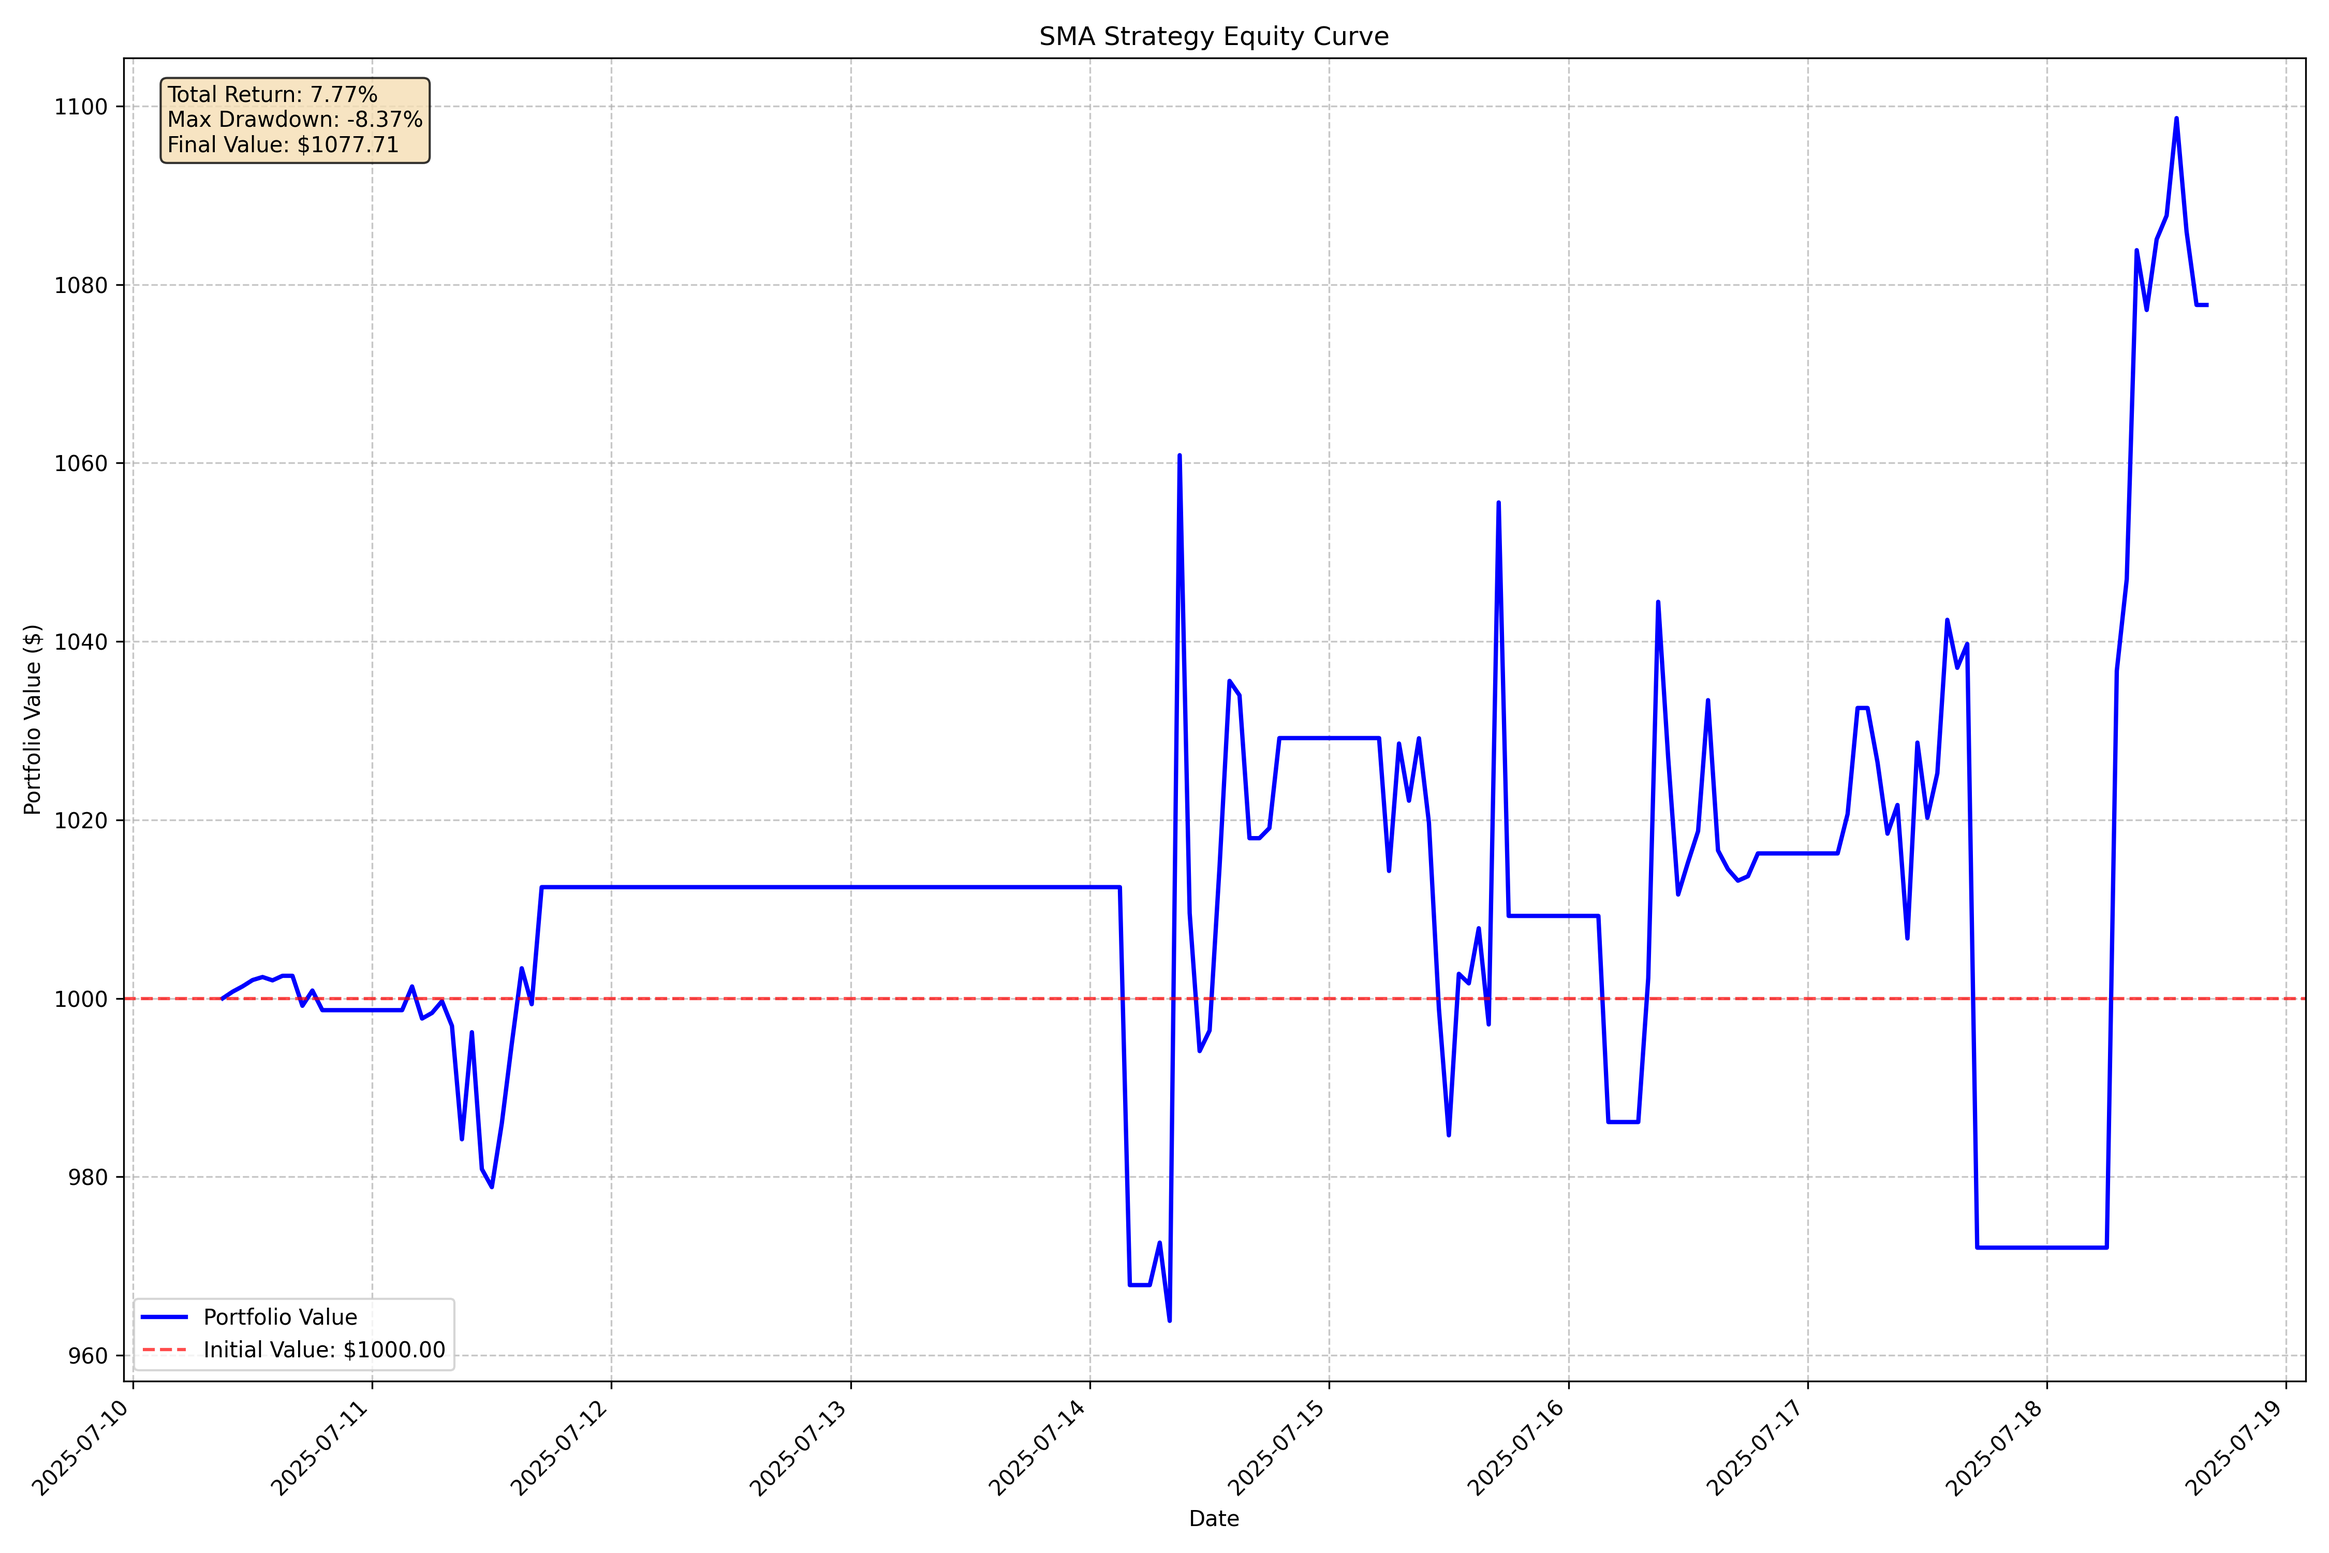
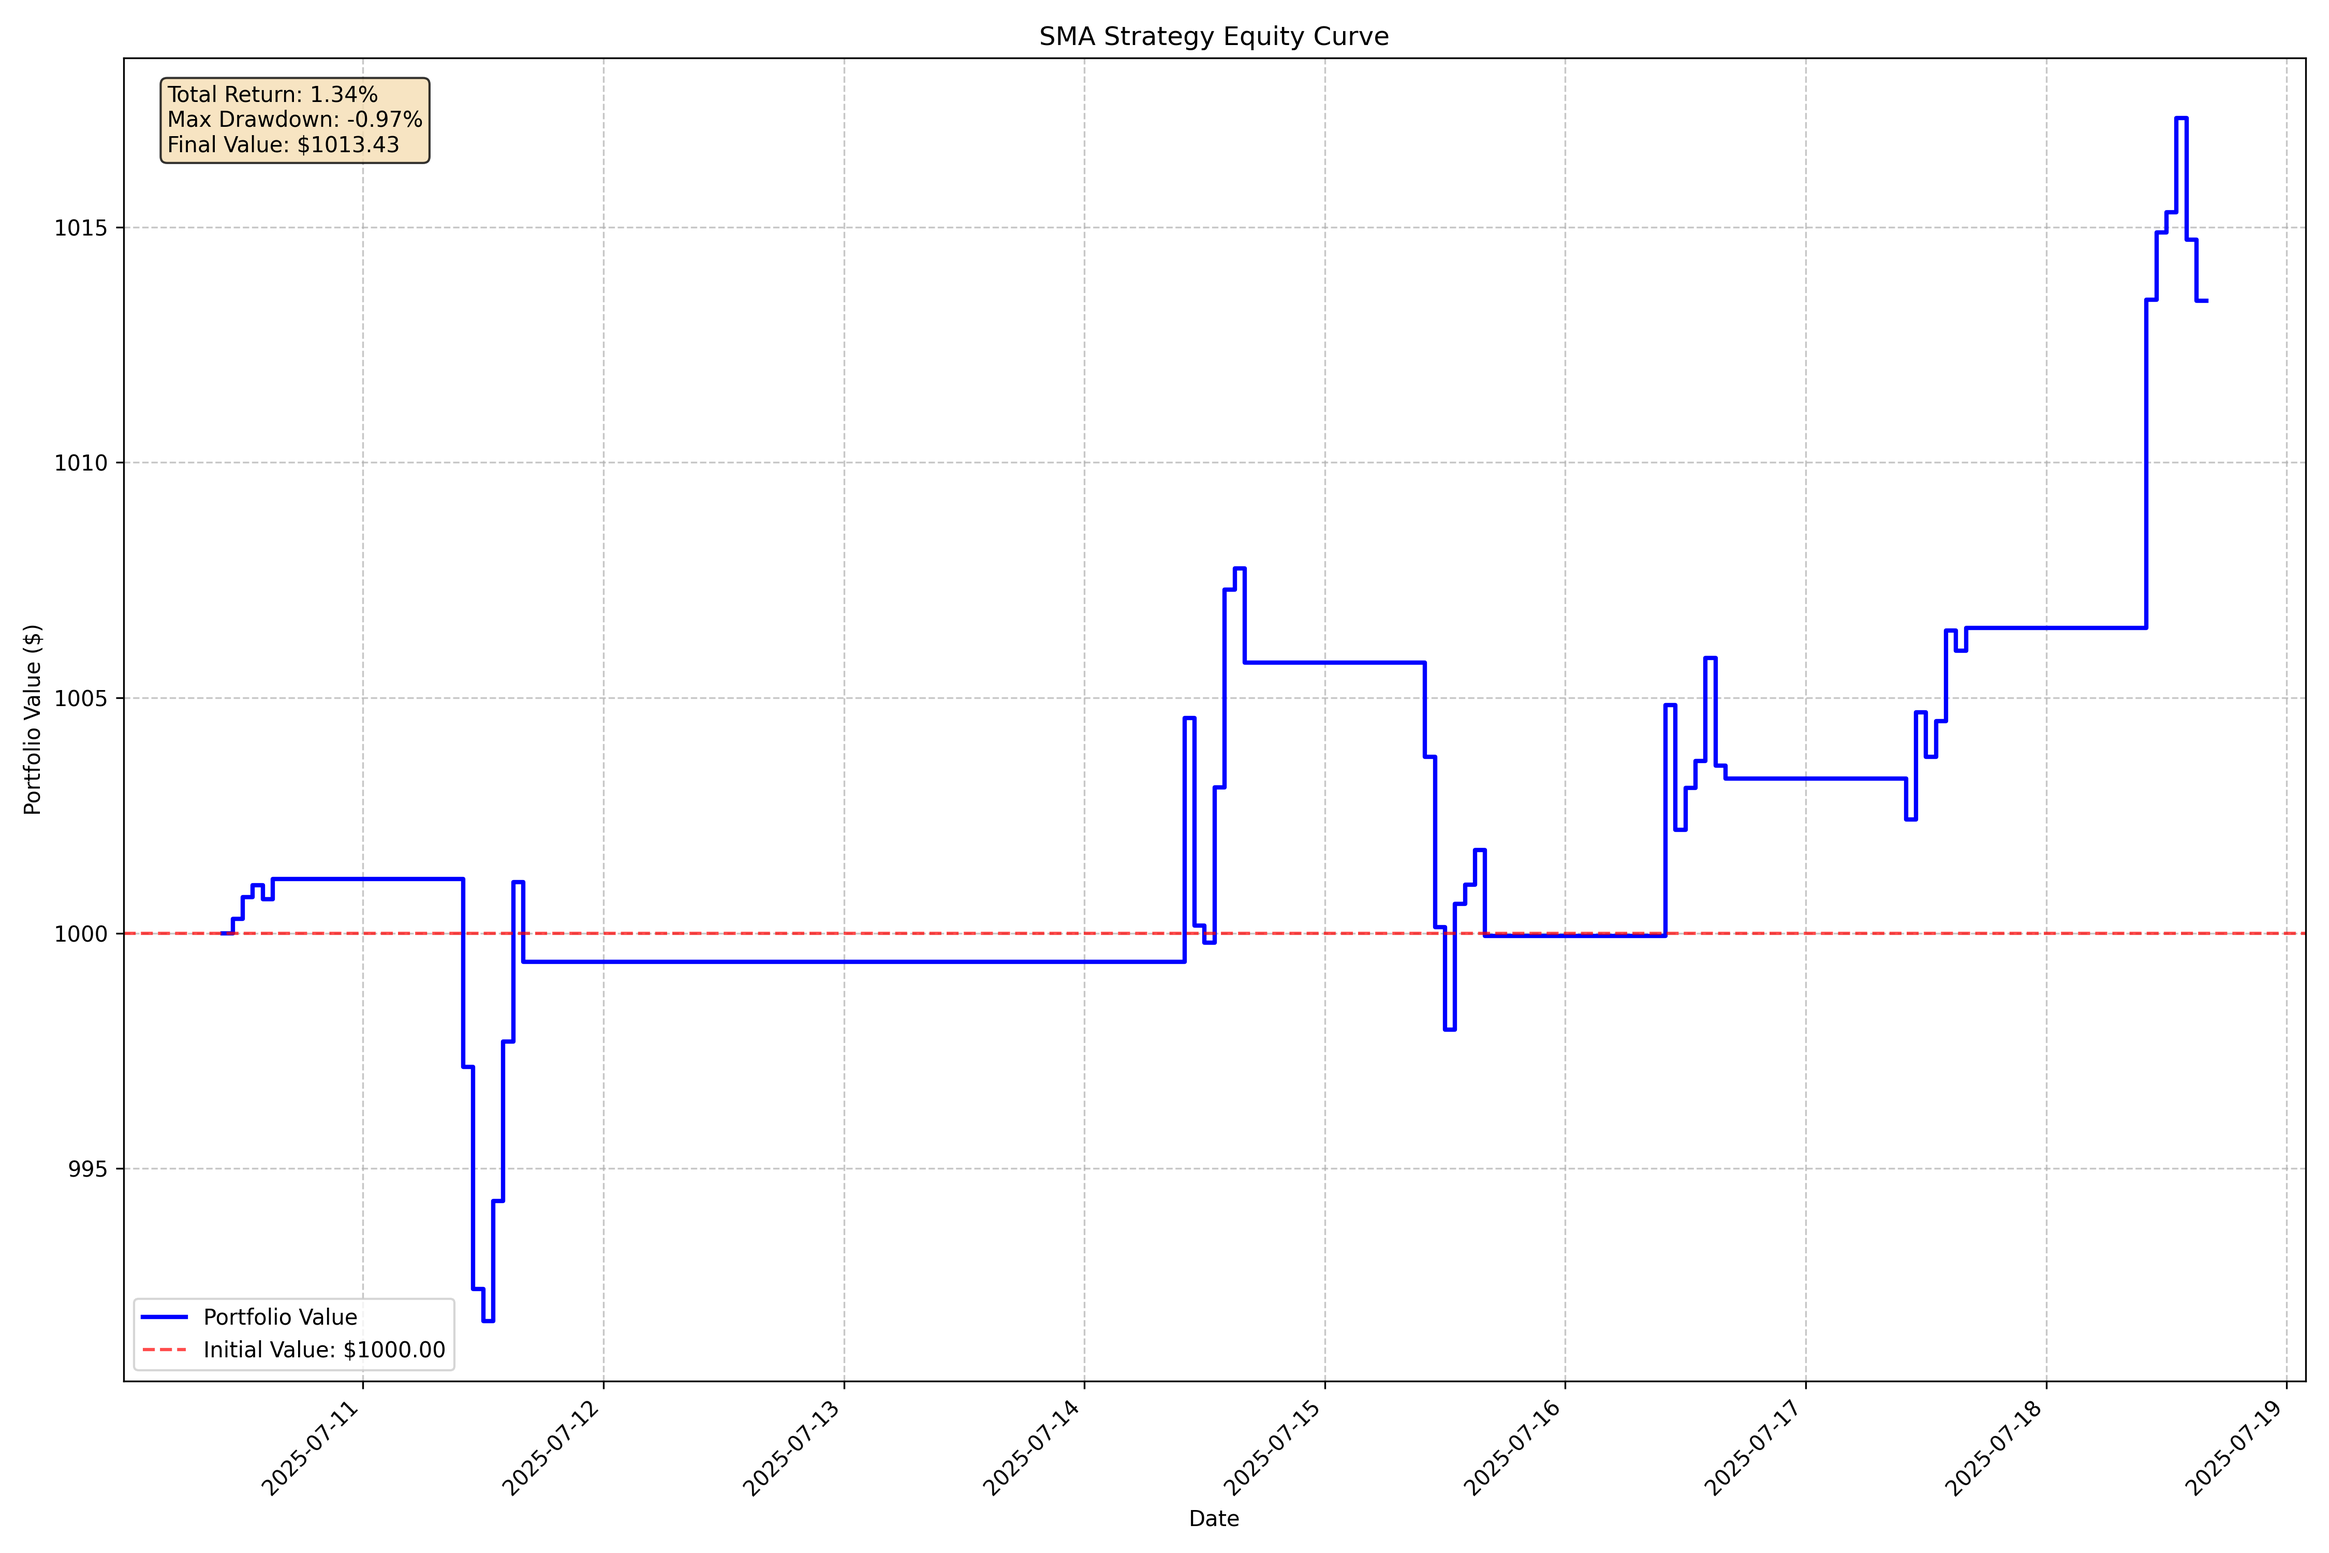
more plotting

diff --git a/src/backtester.py b/src/backtester.py
@@ -117,7 +117,7 @@ class EventBacktester(ABC):
         if ffill:
             self.state_history = self.state_history.ffill()
 
-    def _update_portfolio_value(self, index: pd.Timestamp, prices: dict[str, float]):
+    def _update_portfolio_value(self, index: pd.Timestamp, prices: pd.Series):
         """Update the portfolio value at the given index using current prices.
 
         Args:
@@ -225,6 +225,8 @@ class EventBacktester(ABC):
         assert test_prices.index.is_monotonic_increasing, "Prices dataframe must have a monotonic increasing index"
         assert isinstance(
             test_prices.index[0], pd.Timestamp), "Prices dataframe index must be a timestamp"
+        # store
+        self.test_prices = test_prices
 
         # if train prices is not None, we want to make the full price history
         if self.train_prices is not None:
@@ -243,22 +245,18 @@ class EventBacktester(ABC):
         for index in full_price_history.index[start_loc:]:
             # perform update step
             self.update_step(full_price_history, index)
-            # check if the market is open
             if ignore_market_open or is_market_open(index):
                 # make a decision
                 current_bar_prices = full_price_history.loc[index]
                 self.take_action(current_bar_prices)
 
                 # Update portfolio value with current prices
-                current_prices = {
-                    ticker: current_bar_prices[ticker] for ticker in self.active_tickers}
-                self._update_portfolio_value(index, current_prices)
+                self._update_portfolio_value(index, current_bar_prices)
 
-            if close_positions:
-                if index == full_price_history.index[-2]:
-                    logger.info(f"Closing positions at {index}...")
-                    self.close_positions(full_price_history.iloc[-1])
-                    break
+            if close_positions and index == full_price_history.index[-2]:
+                logger.info(f"Closing positions at {index}...")
+                self.close_positions(full_price_history.iloc[-1])
+                break
 
         logger.info("Backtest complete.")
         # return the state history
@@ -328,39 +326,6 @@ class EventBacktester(ABC):
             train_prices.index[0], pd.Timestamp), "Prices dataframe index must be a timestamp"
         self.train_prices = train_prices
         self.preload(train_prices)
-    ################################################################################################
-    ################################################################################################
-
-    def preload(self, train_prices: pd.DataFrame):
-        """
-        Preload the indicators for the backtest. This is meant to be overridden by the child class.
-        """
-        raise NotImplementedError(
-            "This method must be overridden by the child class.")
-
-    def update_step(self, prices: pd.DataFrame, index: pd.Timestamp):
-        """
-        Args:
-            prices: DataFrame with prices of the assets. Columns are the tickers, index is the date.
-                Close prices are used.
-            index: The index point of the prices.
-        This is optional and can be overridden by the child class.
-        """
-        pass
-
-    @abstractmethod
-    def take_action(self, prices: pd.Series):
-        """
-        Make a decision based on the current prices. This is meant to be overridden by the child class.
-        This will place an order if needed.
-
-        Args:
-            prices: Series with prices of the assets. Index is the date.
-        Returns:
-            Position: The order to place.
-        """
-        raise NotImplementedError(
-            "This method must be overridden by the child class.")
 
     def plot_equity_curve(self, figsize: tuple = DEFAULT_FIGSIZE, title: str = "Equity Curve", save_plot: bool = True, show_plot: bool = False) -> plt.Figure:
         """
@@ -386,8 +351,8 @@ class EventBacktester(ABC):
         portfolio_values = state_history["portfolio_value"]
         # Filter out the initial state (index 0) and only plot timestamp-indexed data
         portfolio_values_filtered = portfolio_values[portfolio_values.index != 0]
-        ax.plot(portfolio_values_filtered.index, portfolio_values_filtered,
-                label="Portfolio Value", linewidth=2, color='blue')
+        ax.step(portfolio_values_filtered.index, portfolio_values_filtered,
+                label="Portfolio Value", linewidth=2, color='blue', where='post')
 
         # Add horizontal line for initial portfolio value
         initial_value = portfolio_values_filtered.iloc[0]
@@ -433,7 +398,7 @@ class EventBacktester(ABC):
 
         return fig
 
-    def plot_performance_analysis(self, figsize: tuple = (15, 12), save_plot: bool = True, show_plot: bool = True):
+    def plot_performance_analysis(self, figsize: tuple = (20, 10), save_plot: bool = True, show_plot: bool = True):
         """
         Create a comprehensive performance analysis plot with multiple subplots.
 
@@ -449,8 +414,9 @@ class EventBacktester(ABC):
                 "No state history available for plotting performance analysis")
             return
 
-        # Create figure with subplots
-        fig, ((ax1, ax2), (ax3, ax4)) = plt.subplots(2, 2, figsize=figsize)
+        # Create figure with subplots (2 rows, 3 columns)
+        fig, ((ax1, ax2, ax3), (ax4, ax5, ax6)
+              ) = plt.subplots(2, 3, figsize=figsize)
 
         portfolio_values = state_history["portfolio_value"]
         # Filter out the initial state (index 0) and only plot timestamp-indexed data
@@ -459,8 +425,8 @@ class EventBacktester(ABC):
         # Subplot 1: Cumulative Returns
         returns = portfolio_values_filtered.pct_change().dropna()
         cumulative_returns = (1 + returns).cumprod()
-        ax1.plot(cumulative_returns.index, cumulative_returns,
-                 label="Cumulative Returns", linewidth=2, color='green')
+        ax1.step(cumulative_returns.index, cumulative_returns,
+                 label="Cumulative Returns", linewidth=2, color='green', where='post')
         ax1.axhline(y=1, color='red', linestyle='--',
                     alpha=0.7, label='Break-even')
         ax1.set_title("Cumulative Returns")
@@ -472,9 +438,11 @@ class EventBacktester(ABC):
         cumulative_max = portfolio_values_filtered.cummax()
         drawdown = ((portfolio_values_filtered -
                     cumulative_max) / cumulative_max) * 100
+        # For step plots, we need to use fill_between differently
         ax2.fill_between(drawdown.index, drawdown, 0,
-                         color='red', alpha=0.3, label='Drawdown')
-        ax2.plot(drawdown.index, drawdown, color='red', linewidth=1)
+                         color='red', alpha=0.3, label='Drawdown', step='post')
+        ax2.step(drawdown.index, drawdown, color='red',
+                 linewidth=1, where='post')
         ax2.set_title("Drawdown")
         ax2.set_ylabel("Drawdown (%)")
         ax2.legend()
@@ -491,8 +459,8 @@ class EventBacktester(ABC):
         ax3.grid(True, linestyle='--', alpha=0.7)
 
         # Subplot 4: Equity Curve
-        ax4.plot(portfolio_values_filtered.index, portfolio_values_filtered,
-                 label="Portfolio Value", linewidth=2, color='blue')
+        ax4.step(portfolio_values_filtered.index, portfolio_values_filtered,
+                 label="Portfolio Value", linewidth=2, color='blue', where='post')
         initial_value = portfolio_values_filtered.iloc[0]
         ax4.axhline(y=initial_value, color='red', linestyle='--', alpha=0.7,
                     label=f'Initial Value: ${initial_value:.2f}')
@@ -501,8 +469,53 @@ class EventBacktester(ABC):
         ax4.legend()
         ax4.grid(True, linestyle='--', alpha=0.7)
 
+        # Subplot 5: Ticker Prices
+        if hasattr(self, 'test_prices') and self.test_prices is not None:
+            for ticker in self.active_tickers:
+                if ticker in self.test_prices.columns:
+                    ax5.step(self.test_prices.index, self.test_prices[ticker],
+                             label=ticker, linewidth=1.5, where='post')
+            ax5.set_title("Ticker Prices")
+            ax5.set_ylabel("Price ($)")
+            ax5.legend()
+            ax5.grid(True, linestyle='--', alpha=0.7)
+        else:
+            ax5.text(0.5, 0.5, 'No test prices available',
+                     transform=ax5.transAxes, ha='center', va='center')
+            ax5.set_title("Ticker Prices")
+
+        # Subplot 6: Buy and Hold Returns
+        if hasattr(self, 'test_prices') and self.test_prices is not None:
+            all_cum_returns = []
+            for ticker in self.active_tickers:
+                if ticker in self.test_prices.columns:
+                    ticker_prices = self.test_prices[ticker]
+                    ticker_returns = ticker_prices.pct_change().dropna()
+                    ticker_cum_returns = (1 + ticker_returns).cumprod()
+                    ax6.step(ticker_cum_returns.index, ticker_cum_returns,
+                             label=f'{ticker} B&H', linewidth=1.5, alpha=0.7, where='post')
+                    all_cum_returns.append(ticker_cum_returns)
+
+                    # Calculate combined returns (equal-weighted portfolio)
+            if all_cum_returns:
+                combined_returns = pd.concat(
+                    all_cum_returns, axis=1).mean(axis=1)
+                ax6.step(combined_returns.index, combined_returns,
+                         label='Combined B&H', linewidth=2, color='black', linestyle='-', where='post')
+
+            ax6.axhline(y=1, color='red', linestyle='--',
+                        alpha=0.7, label='Break-even')
+            ax6.set_title("Buy and Hold Returns")
+            ax6.set_ylabel("Cumulative Return")
+            ax6.legend()
+            ax6.grid(True, linestyle='--', alpha=0.7)
+        else:
+            ax6.text(0.5, 0.5, 'No test prices available',
+                     transform=ax6.transAxes, ha='center', va='center')
+            ax6.set_title("Buy and Hold Returns")
+
         # Rotate x-axis labels for all subplots
-        for ax in [ax1, ax2, ax4]:
+        for ax in [ax1, ax2, ax4, ax5, ax6]:
             plt.setp(ax.get_xticklabels(), rotation=45, ha='right')
 
         plt.tight_layout()
@@ -514,6 +527,40 @@ class EventBacktester(ABC):
             plt.show()
         else:
             plt.close()
+
+    ################################################################################################
+    ################################################################################################
+
+    def preload(self, train_prices: pd.DataFrame):
+        """
+        Preload the indicators for the backtest. This is meant to be overridden by the child class.
+        """
+        raise NotImplementedError(
+            "This method must be overridden by the child class.")
+
+    def update_step(self, prices: pd.DataFrame, index: pd.Timestamp):
+        """
+        Args:
+            prices: DataFrame with prices of the assets. Columns are the tickers, index is the date.
+                Close prices are used.
+            index: The index point of the prices.
+        This is optional and can be overridden by the child class.
+        """
+        pass
+
+    @abstractmethod
+    def take_action(self, prices: pd.Series):
+        """
+        Make a decision based on the current prices. This is meant to be overridden by the child class.
+        This will place an order if needed.
+
+        Args:
+            prices: Series with prices of the assets. Index is the date.
+        Returns:
+            Position: The order to place.
+        """
+        raise NotImplementedError(
+            "This method must be overridden by the child class.")
 
 
 class WalkForwardBacktester(EventBacktester, ABC):
@@ -595,7 +642,7 @@ if __name__ == "__main__":
     test_prices = prices.iloc[midpoint:]
 
     backtester.load_train_prices(train_prices)
-    backtester.run(test_prices, ignore_market_open=True)
+    backtester.run(test_prices, ignore_market_open=False)
 
     print(dash("order history"))
     print(backtester.get_history())

diff --git a/src/utilities/market.py b/src/utilities/market.py
@@ -13,7 +13,7 @@ try:
     from src import get_logger
 except ImportError:
     from __init__ import *
-    from .. import get_logger
+    from src import get_logger
 
 # Create a logger for the market module
 logger = get_logger("utilities.market")
@@ -98,3 +98,12 @@ def load_sec_tickers(data_dir: str = os.getenv("DATA_DIR")) -> pd.DataFrame:
     df.set_index("cik", inplace=True)
     logger.info(f"Loaded {len(df)} SEC tickers")
     return df
+
+
+if __name__ == "__main__":
+    # 5pm est
+    dt = datetime.now(eastern)
+
+    dt = dt.replace(day=17, hour=10, minute=0, second=0, microsecond=0)
+
+    print(is_market_open(dt))
